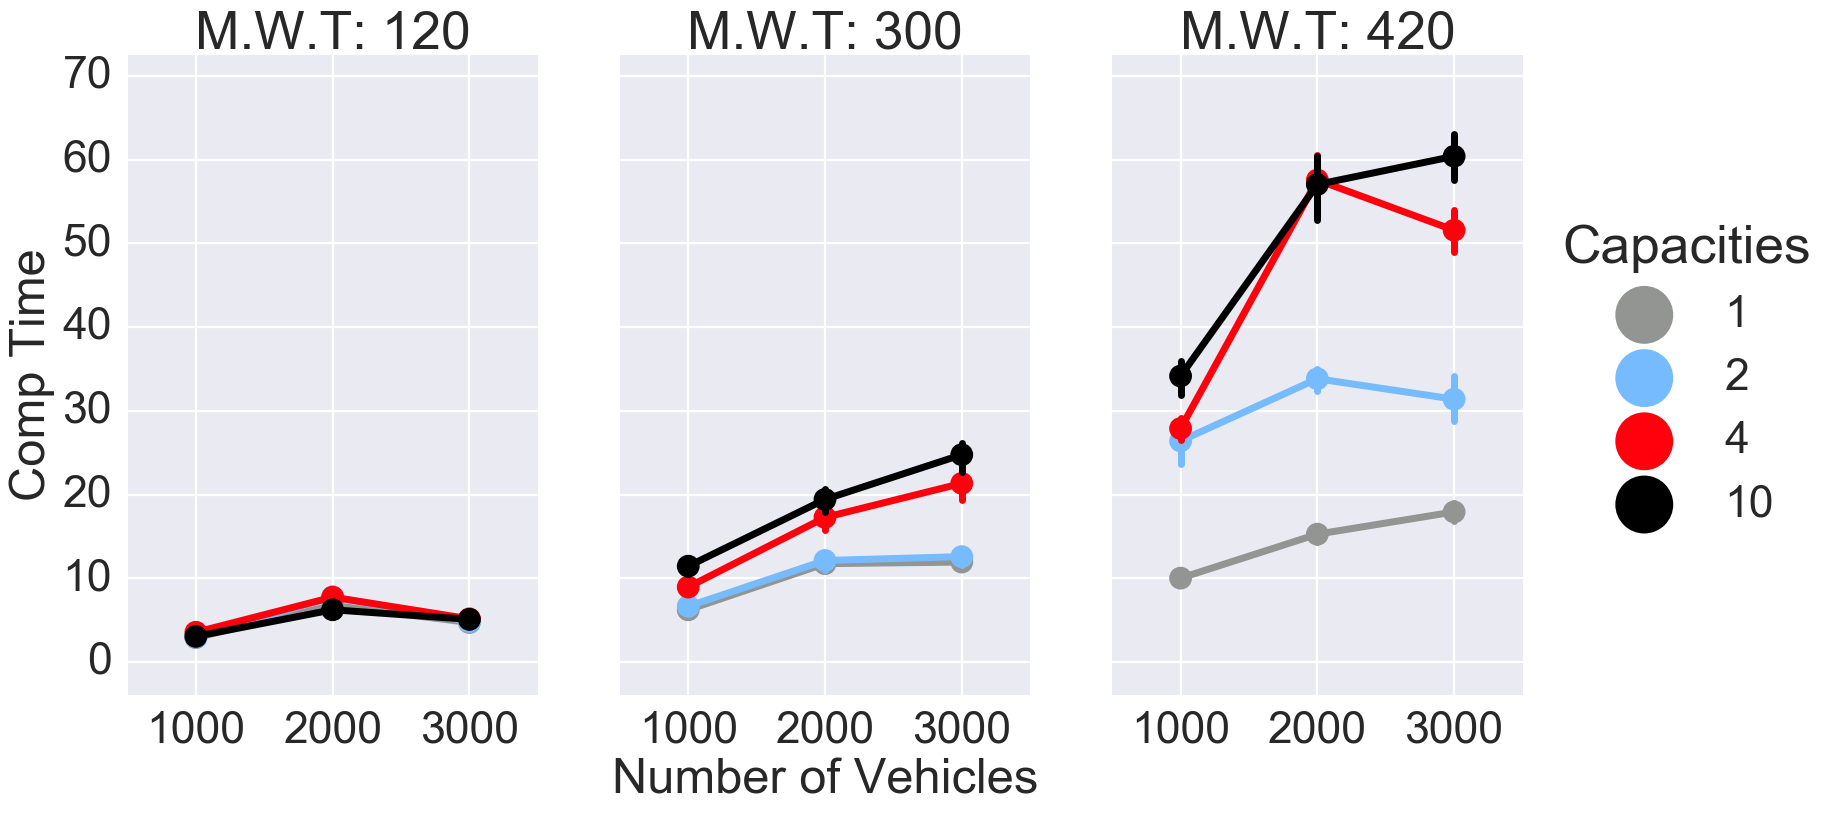
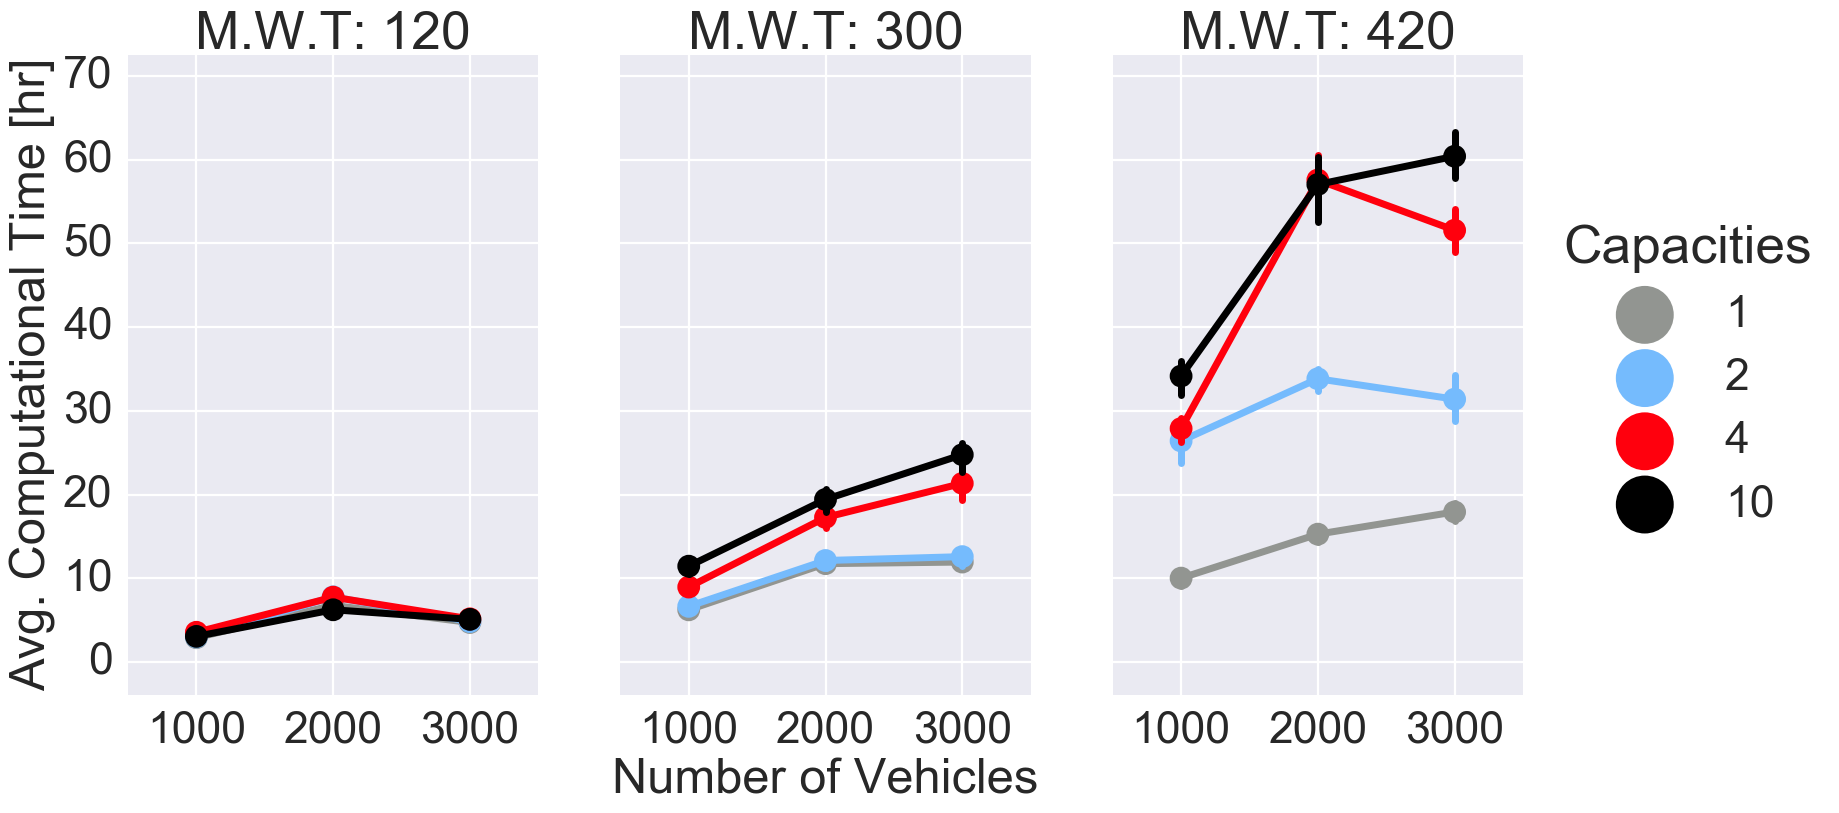
okay this worked

diff --git a/scripts/plot_metrics.py b/scripts/plot_metrics.py
@@ -83,7 +83,7 @@ def prettify(text):
         return "Mean Distance Travelled [km]"
     if text == "serviced_percentage":
         return "% of Serviced Requests"
-    if text == "comp_times":
+    if text == "comp_time":
         return "Avg. Computational Time [hr]"
     else:
         words = text.split("_")
